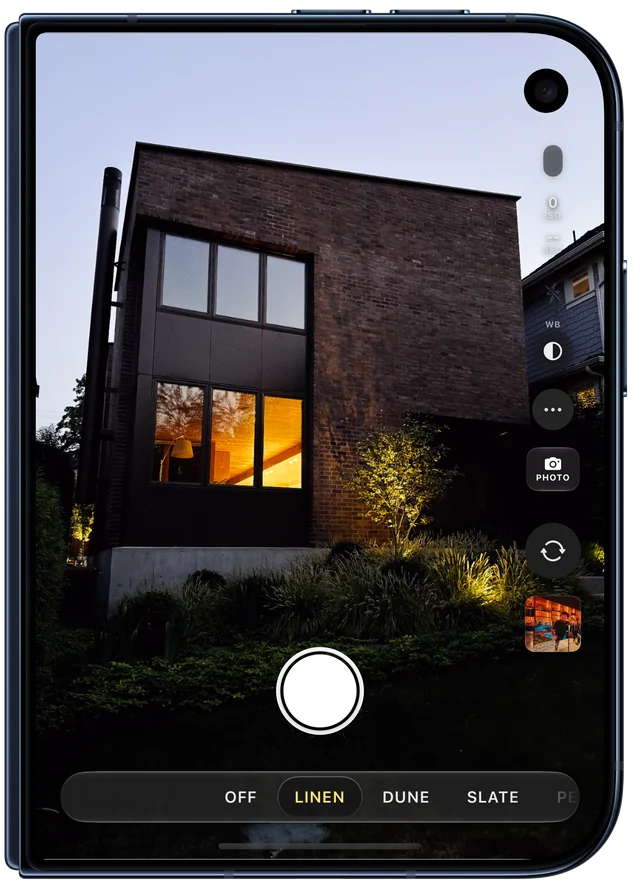
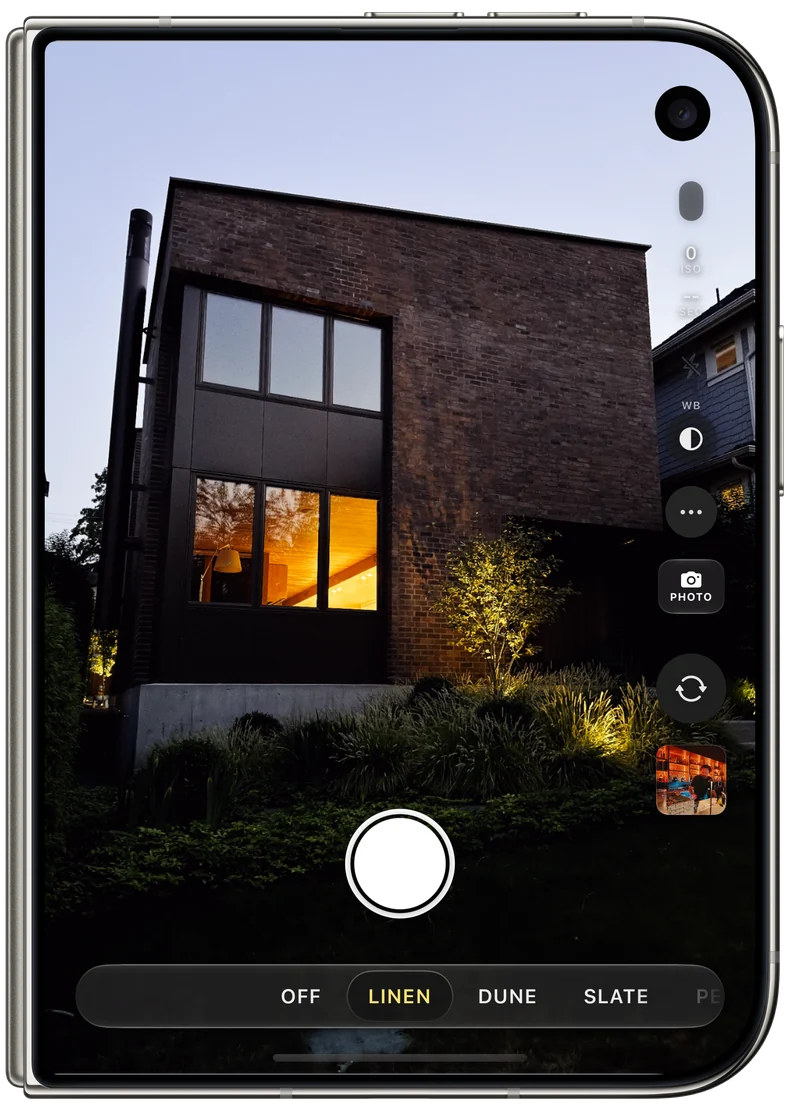
Duo section: the scrolled story then a pose picker (Wide, Tall, Tabletop with eye or waist level, Pocket with each body and the editor, Duo Preview), every pose in Star White; two closing facts; Support's camera guide adds the finder at eye level (pre-order wording kept)

diff --git a/index.html b/index.html
@@ -288,8 +288,10 @@
   .duo { background: radial-gradient(90% 60% at 50% 0%, #26221c 0%, var(--night) 70%); }
   .duo-hero { margin: 64px auto 0; width: min(1080px, 100%); }
   /* The open Duo, then the folded Duo below it: Classic and Modern slide
-     out from behind Field as the row scrolls into view (the script sets
-     their transform; without it they simply stand in place). */
+     out from behind Field as the row scrolls into view (taken out for a
+     fade in place on 2026-11-18 over Apple's "don't animate" line, and put
+     back the same night at the owner's word); the pose picker follows at
+     the section's foot. */
   .duo { padding-top: 0; overflow: clip; }
   /* Each part is one screen tall, as when the section was pinned, so the
      devices take whatever height the words leave - the sizes they had. */
@@ -318,6 +320,72 @@
     .folded { flex: none; }
     .folded img { max-height: none; }
   }
+  /* The pose picker: the device on the right at one physical scale (a
+     square stage the open Duo's width across; each image's --w is its
+     width's share of that), the positions on the left, the chosen one
+     opened into its words. A pose changes by a dissolve: the new image
+     fades up as the old one goes, nothing moves. */
+  .poses-lede { max-width: 640px; margin-left: auto; margin-right: auto; }
+  .poses { max-width: 1180px; margin: clamp(36px, 6vw, 72px) auto 0; display: grid;
+           grid-template-columns: minmax(280px, 400px) minmax(0, 1fr); gap: clamp(24px, 4vw, 64px);
+           align-items: center; }
+  .pose-stage { position: relative; order: 2; width: min(100%, 76vh, 720px); aspect-ratio: 1; justify-self: center; }
+  .pose-img { position: absolute; left: 50%; top: 50%; width: var(--w); height: auto;
+              transform: translate(-50%, -50%); opacity: 0;
+              transition: opacity .26s cubic-bezier(.5, 0, .9, .5); }
+  /* The old pose is mostly gone before the new one comes up, so the two
+     barely overlap: a dissolve, not a double exposure. */
+  .pose-img.on { opacity: 1; transition: opacity .44s cubic-bezier(.15, .5, .4, 1) .14s; z-index: 1; }
+  html:not(.js) .pose-img:not(.on) { display: none; }
+  .pose-list { order: 1; display: flex; flex-direction: column; align-items: flex-start; gap: 12px; }
+  .pose { border-radius: 30px; background: rgba(255,255,255,.07); border: 1px solid rgba(255,255,255,.1);
+          transition: background .3s, border-color .3s; max-width: 100%; }
+  .pose > button { display: flex; align-items: center; gap: 14px; padding: 16px 26px 16px 18px; border: 0;
+                   background: none; color: var(--snow); font: 500 19px var(--text); cursor: pointer;
+                   border-radius: 30px; text-align: left; }
+  .pose > button i { flex: none; width: 28px; height: 28px; border-radius: 50%; position: relative;
+                     border: 1.5px solid rgba(245,245,247,.75); }
+  .pose > button i::before, .pose > button i::after { content: ""; position: absolute; left: 50%; top: 50%;
+                     width: 11px; height: 1.5px; background: var(--snow); transform: translate(-50%, -50%); }
+  .pose > button i::after { transform: translate(-50%, -50%) rotate(90deg); transition: transform .3s; }
+  .pose > button:focus-visible { outline: 2px solid var(--orange); outline-offset: 2px; }
+  .pose p { margin: 0; font-size: 17px; line-height: 1.45; color: var(--snow-dim); }
+  .pose p b { color: var(--snow); font-weight: 600; }
+  .pose p a, .pose-words p a { color: var(--snow); text-decoration: underline; text-underline-offset: 3px;
+                               text-decoration-color: rgba(245,245,247,.4); }
+  .pose > p, .pose > .pose-more { display: none; padding: 0 30px 26px; max-width: 520px; }
+  .pose.on { background: rgba(255,255,255,.12); border-color: rgba(255,255,255,.16); }
+  .pose.on > button { padding-bottom: 12px; }
+  .pose.on > button i { background: var(--orange); border-color: var(--orange); }
+  .pose.on > button i::after { transform: translate(-50%, -50%) rotate(0deg); }
+  .pose.on > p, .pose.on > .pose-more { display: block; }
+  html:not(.js) .pose > p, html:not(.js) .pose > .pose-more { display: block; }
+  .pose-words { display: none; grid-column: 1 / -1; order: 3; }
+  .bodies-pick { display: flex; gap: 8px; margin-top: 16px; flex-wrap: wrap; }
+  .bodies-pick button { border-radius: 99px; padding: 7px 15px; font: 500 12px var(--display);
+                        letter-spacing: .18em; text-transform: uppercase; cursor: pointer;
+                        color: var(--snow-dim); background: transparent; border: 1px solid rgba(255,255,255,.22); }
+  .bodies-pick button[aria-pressed="true"] { color: var(--night); background: var(--snow); border-color: var(--snow); }
+  @media (prefers-reduced-motion: reduce) { .pose-img, .pose-img.on { transition: none; } }
+  /* Narrow: the device on top, the positions as a row of pills under it,
+     and the chosen position's words under those. */
+  @media (max-width: 820px) {
+    .poses { grid-template-columns: minmax(0, 1fr); gap: 18px; }
+    .pose-stage { order: 0; width: min(100%, 560px); }
+    .pose-list { display: grid; grid-template-columns: repeat(5, max-content); gap: 8px; overflow-x: auto;
+                 scrollbar-width: none; margin: 0 calc(-1 * var(--gutter)); padding: 0 var(--gutter) 4px;
+                 scroll-padding: 0 var(--gutter); }
+    .pose-list::-webkit-scrollbar { display: none; }
+    .pose { border-radius: 99px; }
+    .pose > button { font-size: 15px; padding: 10px 18px 10px 12px; gap: 10px; }
+    .pose > button i { width: 22px; height: 22px; }
+    .pose > button i::before, .pose > button i::after { width: 9px; }
+    .pose.on > button { padding-bottom: 10px; }
+    .pose.on > p, .pose.on > .pose-more { display: none; }
+    .pose-words { display: block; padding: 4px 2px 0; min-height: 7.5em; }
+    .pose-words p { margin: 0; font-size: 17px; line-height: 1.45; color: var(--snow-dim); }
+    .pose-words p b { color: var(--snow); font-weight: 600; }
+  }
   .badge { display: inline-flex; gap: 8px; align-items: center; border-radius: 99px; padding: 8px 16px;
            font-size: 13px; margin-bottom: 26px; }
   .badge i { width: 7px; height: 7px; border-radius: 50%; background: var(--orange);
@@ -328,11 +396,20 @@
   .trio figcaption, .cap { font: 500 12px var(--display); letter-spacing: .24em; text-transform: uppercase;
                            color: var(--snow-dim); margin-top: 18px; }
   .light-sec .cap, .white-sec .cap { color: var(--ink-dim); }
-  .facts { display: grid; grid-template-columns: repeat(3, 1fr); gap: 16px; margin-top: clamp(48px, 7vw, 90px); }
+  /* The Duo section's two closing facts (the third, "Every pose", went
+     when the pose picker came to say it, 2026-11-18): side by side, and
+     compact on a phone, where they stack. */
+  .facts { display: grid; grid-template-columns: repeat(2, 1fr); gap: 16px; max-width: 860px;
+           margin: clamp(48px, 7vw, 90px) auto 0; }
   .fact { border-radius: 26px; padding: 30px 28px; }
   .fact h4 { font: 400 22px/1.15 var(--display); text-transform: uppercase; margin: 0 0 10px; letter-spacing: .02em; }
   .fact p { margin: 0; font-size: 16px; color: var(--snow-dim); }
-  @media (max-width: 820px) { .facts { grid-template-columns: 1fr; } }
+  @media (max-width: 820px) {
+    .facts { grid-template-columns: 1fr; gap: 10px; }
+    .fact { border-radius: 22px; padding: 18px 20px; }
+    .fact h4 { font-size: 17px; margin-bottom: 6px; }
+    .fact p { font-size: 15px; line-height: 1.4; }
+  }
   .outer { margin: clamp(32px, 5vw, 64px) auto 0; }
 
   /* ---------- Editor ---------- */
@@ -587,8 +664,7 @@
 <!-- Duo -->
 <section id="duo" class="duo">
   <!-- The open Duo, then, scrolled to, the folded Duo: Field first, with
-       Classic and Modern sliding out from behind it as the row comes into
-       view. Apple's own device images, untouched. Without JavaScript the
+       Classic and Modern fading in beside it as the row comes into view. Apple's own device images, untouched. Without JavaScript the
        three simply stand in a row. -->
   <div class="duo-stage">
     <div class="duo-step">
@@ -622,18 +698,103 @@
     <h3 class="headline m reveal" style="margin-top: clamp(24px, 5vw, 60px)">Stand it half-folded.<br>A waist-level camera.</h3>
     <p class="lede reveal d1">Set the Duo down half-open and look into it the way you would a twin-lens
       reflex: the picture on the half that lies flat, the controls on the half that stands, and two
-      instruments along the top - the look in a memo holder, a frame counter, a level or a light meter.</p>
+      instruments along the top - the look in a memo holder, a frame counter, a level or a light meter.
+      Or swap the finder up to the standing half, like a laptop's screen.</p>
+    <img class="outer reveal d2" src="/assets/duo-half-folded.webp?v=6" width="1321" height="999" loading="lazy"
+         style="width: min(760px, 100%)" alt="Haku's Field body on an iPhone Duo stood half-folded: the controls on the standing half, the finder on the half that lies flat">
 
     <h3 class="headline m reveal" style="margin-top: clamp(48px, 8vw, 110px)">Your subject<br>sees the shot.</h3>
     <p class="lede reveal d1">Duo Preview puts the graded frame on the outer screen, so the person you are
       photographing sees what you see. Or turn on Kid Cue: something bright, so a child looks at the lens.</p>
     <img class="outer reveal d2" src="/assets/duo-outer.webp" width="1400" height="1005" loading="lazy"
          style="width: min(760px, 100%)" alt="The back of an open iPhone Duo, its outer screen showing the portrait being taken">
-
+  </div>
+  <!-- The poses, Apple's way round: pick one beside the device and the
+       device changes to it. Apple's own device images, untouched and at one
+       physical scale (each image's width is its share of the open Duo's
+       3,093px), changing by a dissolve - the transition Apple's marketing
+       guidelines allow; they rule out animating, tilting or rendering the
+       device, so a 3D Duo was tried and taken out (2026-11-18). Without
+       JavaScript the open Duo shows and every pose's words are listed. -->
+  <div class="inner center">
+    <h3 class="headline m reveal" style="margin-top: clamp(56px, 9vw, 120px)">Every way you hold it.<br>A camera made for it.</h3>
+    <p class="lede reveal d2 poses-lede">Haku has a layout for each way the Duo opens. Choose one to see it.</p>
+  </div>
+  <div class="poses" data-pose="open">
+    <div class="pose-stage" aria-live="polite">
+      <img class="pose-img on" data-for="open" src="/assets/duo-open-camera.webp?v=4" width="2000" height="1453"
+           style="--w: 100%" alt="Haku's Field body on an open iPhone Duo">
+      <img class="pose-img" data-for="upright" src="/assets/duo-upright-editor.webp?v=2" width="1000" height="1377"
+           loading="lazy" style="--w: 72.65%" alt="Haku's immersive editor on an upright open iPhone Duo">
+      <img class="pose-img" data-for="half" data-level="eye" data-view="classic" src="/assets/duo-half-folded-eye.webp?v=1" width="1321" height="999"
+           loading="lazy" style="--w: 85.42%" alt="Haku's Classic body on an iPhone Duo stood half-folded: the finder on the standing half, the controls on the half that lies flat">
+      <img class="pose-img" data-for="half" data-level="waist" data-view="field" src="/assets/duo-half-folded.webp?v=6" width="1321" height="999"
+           loading="lazy" style="--w: 85.42%" alt="Haku's Field body on an iPhone Duo stood half-folded: the controls on the standing half, the finder on the half that lies flat">
+      <img class="pose-img" data-for="closed" data-view="classic" src="/assets/duo-closed-classic.webp?v=3" width="800" height="1115"
+           loading="lazy" style="--w: 50.89%" alt="Classic body on the folded iPhone Duo">
+      <img class="pose-img" data-for="closed" data-view="field" src="/assets/duo-closed-field.webp?v=3" width="800" height="1115"
+           loading="lazy" style="--w: 50.89%" alt="Field body on the folded iPhone Duo">
+      <img class="pose-img" data-for="closed" data-view="modern" src="/assets/duo-closed-modern.webp?v=3" width="800" height="1115"
+           loading="lazy" style="--w: 50.89%" alt="Modern body on the folded iPhone Duo">
+      <img class="pose-img" data-for="closed" data-view="editor" src="/assets/duo-closed-editor.webp?v=1" width="800" height="1115"
+           loading="lazy" style="--w: 50.89%" alt="Haku's editor on the folded iPhone Duo, its tools floating over the photograph">
+      <img class="pose-img" data-for="preview" src="/assets/duo-outer.webp?v=2" width="1400" height="1005"
+           loading="lazy" style="--w: 98.8%" alt="The back of an open iPhone Duo, its outer screen showing the portrait being taken">
+    </div>
+    <div class="pose-list" role="group" aria-label="Positions">
+      <div class="pose on">
+        <button type="button" aria-pressed="true" data-pose="open"><i></i>Wide</button>
+        <p><b>Open wide.</b> The whole camera is there: the frame, every key, every look, and your
+          roll running underneath as a strip of negative. Classic, Modern and the editor each open
+          their own way — <a href="https://apps.apple.com/app/id6798982888">get Haku</a> and see
+          for yourself.</p>
+      </div>
+      <div class="pose">
+        <button type="button" aria-pressed="false" data-pose="upright"><i></i>Tall</button>
+        <p><b>Open tall.</b> Turn it upright and Haku turns with it. In the editor the photograph
+          fills the screen and the tools float over it on glass. Every body stands tall too —
+          <a href="https://apps.apple.com/app/id6798982888">get Haku</a> and try them yourself.</p>
+      </div>
+      <div class="pose">
+        <button type="button" aria-pressed="false" data-pose="half"><i></i>Tabletop</button>
+        <div class="pose-more">
+          <p><b>Tabletop.</b> Stand it half-folded with the finder up at eye level, like a
+            laptop's screen, or swap it down to the half that lies flat and look into it the way
+            you would a twin-lens reflex. The controls take the other half, with a frame counter,
+            level or light meter at hand. Left still, it is its own tripod.</p>
+          <div class="bodies-pick" role="group" aria-label="Finder">
+            <button type="button" data-level="eye" aria-pressed="true">Eye level</button>
+            <button type="button" data-level="waist" aria-pressed="false">Waist level</button>
+          </div>
+        </div>
+      </div>
+      <div class="pose">
+        <button type="button" aria-pressed="false" data-pose="closed"><i></i>Pocket</button>
+        <div class="pose-more">
+          <p><b>Closed.</b> Each body becomes a rail beside the frame, keys right under your thumb.
+            It feels like holding a little camera, because it is one. The editor floats its tools
+            over the photograph.</p>
+          <div class="bodies-pick" role="group" aria-label="Camera body or editor">
+            <button type="button" data-view="classic" aria-pressed="false">Classic</button>
+            <button type="button" data-view="field" aria-pressed="true">Field</button>
+            <button type="button" data-view="modern" aria-pressed="false">Modern</button>
+            <button type="button" data-view="editor" aria-pressed="false">Editor</button>
+          </div>
+        </div>
+      </div>
+      <div class="pose">
+        <button type="button" aria-pressed="false" data-pose="preview"><i></i>Duo Preview</button>
+        <p><b>Duo Preview.</b> The outer screen shows the graded frame, so the person you are
+          photographing sees what you see. Or turn on Kid Cue: something bright, so a child looks
+          at the lens.</p>
+      </div>
+    </div>
+    <div class="pose-words" aria-live="polite"></div>
+  </div>
+  <div class="inner center">
     <div class="facts">
-      <div class="fact glass reveal"><h4>Every pose</h4><p>Folded, open wide, held upright or stood half-folded — each has its own layout, and controls keep their place between them.</p></div>
-      <div class="fact glass reveal d1"><h4>Split at the hinge</h4><p>Editor, recipes, looks and settings use both halves: the picture on one side, every tool on the other.</p></div>
-      <div class="fact glass reveal d2"><h4>One app</h4><p>The same Haku runs on every iPhone. On Duo, the layout follows the screen you are holding.</p></div>
+      <div class="fact glass reveal"><h4>Split at the hinge</h4><p>Editor, recipes, looks and settings use both halves: the picture on one side, every tool on the other.</p></div>
+      <div class="fact glass reveal d1"><h4>One app</h4><p>The same Haku runs on every iPhone. On Duo, the layout follows the screen you are holding.</p></div>
     </div>
   </div>
 </section>
@@ -1087,6 +1248,65 @@
     addEventListener('resize', function () { if (innerWidth !== width) measure(); tick(); });
     addEventListener('load', function () { measure(); draw(); });
     measure(); draw();
+  })();
+
+  // The Duo's poses: a position chosen beside the device brings its image
+  // up by a dissolve (the CSS), opens its words, and on a narrow screen
+  // copies them under the row of pills. Pocket has a body or the editor to
+  // choose, Tabletop the finder's level; Wide and Tall show one each and
+  // leave the rest for Haku itself (owner, 2026-11-18). A choice is kept
+  // across positions, shown where a position has an image of it, else its
+  // first; the pressed chip is what shows. The delegated listener serves
+  // both copies of the chips.
+  (function () {
+    var root = document.querySelector('.poses');
+    if (!root) return;
+    var imgs = [].slice.call(root.querySelectorAll('.pose-img'));
+    var items = [].slice.call(root.querySelectorAll('.pose'));
+    var words = root.querySelector('.pose-words');
+    var pose = 'open', view = 'field', level = 'eye';
+    function shown() {
+      var here = imgs.filter(function (im) {
+        return im.dataset.for === pose && (!im.dataset.level || im.dataset.level === level);
+      });
+      return here.filter(function (im) { return im.dataset.view === view; })[0] || here[0];
+    }
+    function show() {
+      var on = shown();
+      imgs.forEach(function (im) { im.classList.toggle('on', im === on); });
+      items.forEach(function (it) {
+        var b = it.querySelector(':scope > button'), here = b.dataset.pose === pose;
+        it.classList.toggle('on', here);
+        b.setAttribute('aria-pressed', here);
+        if (here) words.innerHTML = (it.querySelector(':scope > p') || it.querySelector('.pose-more')).outerHTML;
+      });
+      root.querySelectorAll('.bodies-pick button').forEach(function (b) {
+        b.setAttribute('aria-pressed', b.dataset.view ? b.dataset.view === on.dataset.view : b.dataset.level === level);
+      });
+      root.dataset.pose = pose;
+    }
+    root.addEventListener('click', function (e) {
+      var b = e.target.closest('button');
+      if (!b) return;
+      if (b.dataset.pose) pose = b.dataset.pose;
+      else if (b.dataset.view) view = b.dataset.view;
+      else if (b.dataset.level) level = b.dataset.level;
+      else return;
+      show();
+      // On a phone the pill row scrolls sideways: keep the chosen one in it.
+      if (b.dataset.pose && b.scrollIntoView && innerWidth <= 820)
+        b.parentNode.scrollIntoView({ block: 'nearest', inline: 'center', behavior: 'smooth' });
+    });
+    // Up and down (or left and right) step through the positions.
+    root.querySelector('.pose-list').addEventListener('keydown', function (e) {
+      var d = { ArrowDown: 1, ArrowRight: 1, ArrowUp: -1, ArrowLeft: -1 }[e.key];
+      if (!d || !e.target.dataset.pose) return;
+      e.preventDefault();
+      var i = items.findIndex(function (it) { return it.classList.contains('on'); });
+      var next = items[(i + d + items.length) % items.length].querySelector(':scope > button');
+      next.focus(); next.click();
+    });
+    show();
   })();
 
   // The carousel demo: slides snap like Instagram's; the arrows and dots

diff --git a/support/camera/index.html b/support/camera/index.html
@@ -146,7 +146,7 @@ It reads the scene rather than the render, so an existing white balance does not
 <article class="tool"><h3>C1 and C2 - custom setups</h3><p class="sum">Two slots that remember how the camera is set up, so a way of shooting is one press away.</p><p>Set the camera how you like it, then press an empty slot to save it. Pressing a filled slot puts everything back, and pressing it again while lit returns to how things were before. Hold either one to replace or clear it.</p><p class="trade">Stores the film look and every adjustment, plus resolution, RAW, quality and frame shape. It leaves out focus and exposure locks, manual ISO and shutter, the timer, flash and zoom - those belong to one particular scene, and restoring them silently would cost you a shot rather than save you time.</p></article>
 <article class="tool"><h3>Lock</h3><p class="sum">Freezes every control except the shutter, for carrying the camera in hand between shots.</p><p>Walking with the app open, fingers wrapped around the screen. A real camera&#x27;s grip has no controls; a phone&#x27;s screen is all controls, and a grazed key can re-arm the shutter, save a preset or move the exposure without you noticing. Locked, only the shutter fires - the shot is always available.</p><p class="trade">Hold the amber HOLD TO UNLOCK pill - it sits in the body&#x27;s own border, never over the picture - to release. On Field, the speaker grille in the top corner locks; on Classic it is Q &gt; GUIDES &gt; LOCK. The lock does not survive closing the app - a camera that launches locked tomorrow would read as broken.</p></article>
 <article class="tool"><h3>Reset</h3><p class="sum">Clears every capture adjustment back to the look alone.</p><p>Keeps the film simulation and your frame shape; exposure shift, white balance, grain and the rest return to neutral. It only changes what the next shot carries - photographs already taken keep the recipes they were made with.</p><p class="trade">There is no undo on the camera side - though a saved recipe or a C1/C2 preset brings a setup back in one tap.</p></article>
-<h2 id="half-folded-on-iphone-duo">Half-folded on iPhone Duo</h2><p>Stand the Duo half-folded, the camera's half upright, and Haku becomes a waist-level camera: the picture on the half that lies flat, the controls on the half that stands, in every body. Once the phone is still, LONG is offered for a long exposure, and HIST and WAVE show large on the standing half.</p><p>Along the top run two instruments of your choosing - hold the bar to pick them:</p><ul><li><b>Memo holder</b> - the look or recipe that is on, as the flap of a film box clipped to the back.</li><li><b>Frame counter</b> - shots since you stood the phone up, and about how many more it has room for.</li><li><b>Table level</b> - a spirit level for squaring the phone on a table without reading the finder.</li><li><b>Light meter</b> - how bright the scene is, from a dim room to sun, and in manual, whether your dials will come out over or under.</li></ul><p>The same choice is in Settings &rsaquo; Camera on the Duo.</p>
+<h2 id="half-folded-on-iphone-duo">Half-folded on iPhone Duo</h2><p>Stand the Duo half-folded, the camera's half upright, and Haku becomes a waist-level camera: the picture on the half that lies flat, the controls on the half that stands, in every body. Once the phone is still, a row of long exposures, 2 to 30 seconds, comes up - Settings &rsaquo; iPhone Duo &rsaquo; Long exposures when still turns that off - and HIST and WAVE show large on the standing half.</p><p>Along the top run two instruments of your choosing - hold the bar to pick them:</p><ul><li><b>Memo holder</b> - the look or recipe that is on, as the flap of a film box clipped to the back.</li><li><b>Frame counter</b> - shots since you stood the phone up, and about how many more it has room for.</li><li><b>Table level</b> - a spirit level for squaring the phone on a table without reading the finder.</li><li><b>Light meter</b> - how bright the scene is, from a dim room to sun, and in manual, whether your dials will come out over or under.</li></ul><p>The same choice is in Settings &rsaquo; Camera on the Duo.</p><h3>Finder at eye level</h3><p>Sitting at a table, you may rather look straight at the finder than down into it. Press the swap key - FINDER on Field, the two-halves key in Classic's transport row and in Modern's rail - and the finder moves to the half that stands, like a laptop's screen. Everything else moves to the flat half, the instruments and the meters included, with the release on it too: either way the release is on the flat half, where a press can't tip the phone over. The same key brings the finder back down, and Settings &rsaquo; iPhone Duo &rsaquo; Stood half-folded remembers which you prefer.</p>
 </main>
 <footer>
   <div class="inner">
